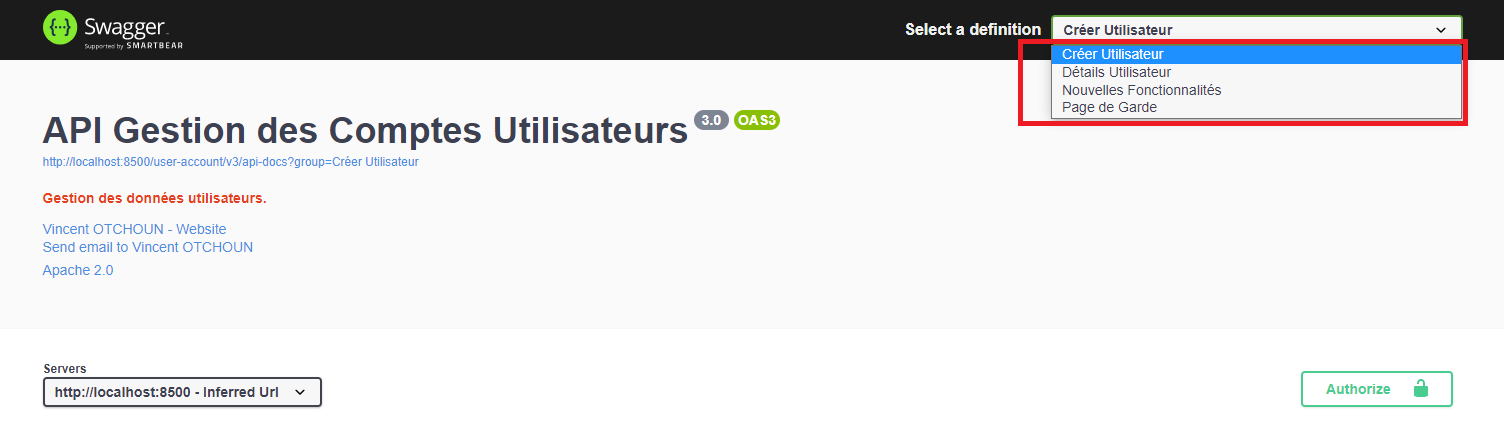
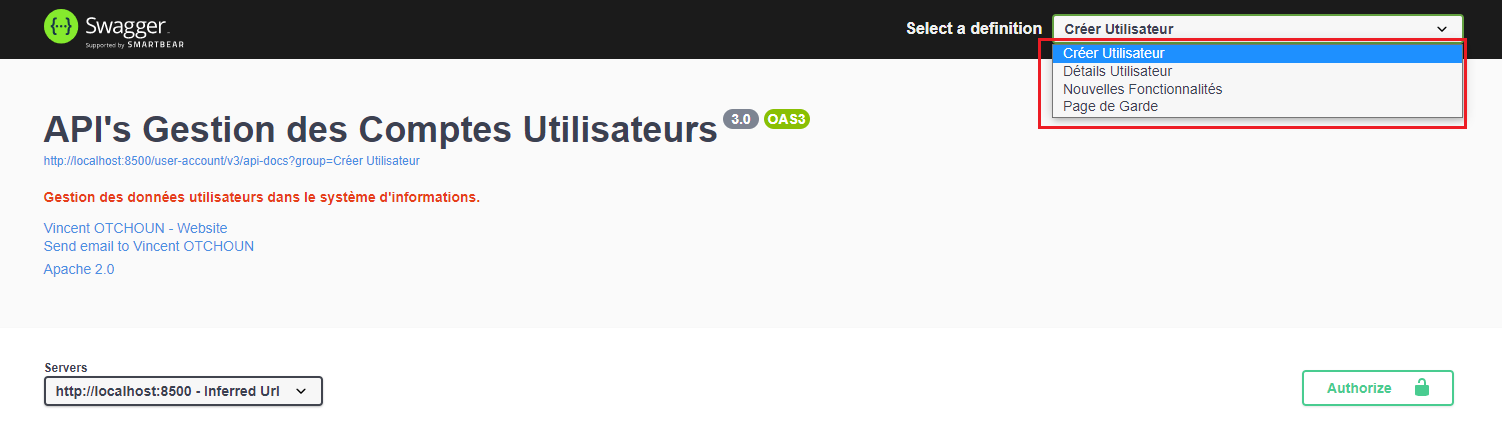
Maj de la documentation du projet

diff --git a/README.md b/README.md
@@ -26,7 +26,7 @@ Une liste non exhaustive des technos embarquées pour le développement de cette
 ![](https://img.shields.io/badge/Model_Mapper-✓-blue.svg)
 ![](https://img.shields.io/badge/Lombok-✓-blue.svg)
 ![](https://img.shields.io/badge/JaCoCo-✓-blue.svg)
-![](https://img.shields.io/badge/Swagger-✓-blue.svg)
+![](https://img.shields.io/badge/Swagger_3.0-✓-blue.svg)
 
 C'est un projet `Maven` avec `Spring Boot` donc basé sur le langage `Java` : 
 - `EA` (Entreprise Architect) pour la fourniture des éléments de modélisation/conception des spécifications techniques fournies.
@@ -37,7 +37,7 @@ C'est un projet `Maven` avec `Spring Boot` donc basé sur le langage `Java` :
 - `SonarLint` intégré dans l'IDE (_STS_) pour `analyser la qualité du code` livré (_bonnes pratiques de développement_).
 - `JaCoCo` produire/fournir les rapports de couverture du code source par les différents tests réalisés.
 - `Model Mapper` pour la conversion des objets : objets persistants vers `DTO` (Data Transfert Object) et vice versa.
-- `Swagger` dans sa version `3.0` pour la documentation et Tests des API proposées par le su=ystème d'informations.
+- `Swagger` dans sa version `3.0` pour la documentation et Tests des API proposées par le système d'informations.
 
 ## Configurations
 Les configurations de l'application permettent de faciliter aussi bien l'exécution que l'exploitation.
@@ -134,6 +134,7 @@ mvn spring-boot:run
 java -jar labs-tests-technique-0.0.1-SNAPSHOT.jar
 ```
 - Ligne de commande avec surcharge des fichiers de base
+
 Il peut y arriver qu'on veuille écraser les configuration de base par des fichiers externes (fichier de propriétés, logger, ....). Dans ce cas la commande est la suivante :
 ```bash
 java -Dlogging.config=file:${SRVC_HOME}/logback-spring.xml -jar labs-tests-technique-0.0.1-SNAPSHOT.jar -Dspring.config.location=file:${SRVC_HOME}/application.properties
@@ -146,14 +147,18 @@ Il permet également de tester les API's. Au démarrage de l'application, il est
 ```bash
 http://localhost:${server.port}/user-account/swagger-ui/index.html
 ```
-La configuration fournie dans l'application se présente ainsi :
+La configuration fournie dans l'application est la suivante :
 ![SWAGGER](./docs/images/app_swagger.png "Configuration Swagger dans l'application")
 
 Il fournit un ensemble de définition décrit dans le tableau ci-dessous
 |Défintion|Description|
 |---|---|
 |`Créer Utilisateur`|_API de création des données d'un nouvel utilisateur dans le SI_|
-|`Détails Utilisateur`|_API de création des données d'un nouvel utilisateur dans le SI_|
+|`Détails Utilisateur`|_API permettant de remonter les détails d'un utilisateur existant dans le SI_|
+|`Nouvelles Fonctionnalités`|_API fournissant les opérations suivantes : <ul><li>Mise à jour des données d'un utilisateur existant dans le SI</li><li>Suppression du SI des données d''un utulisateur existant</li><li>Afficher la liste paginée des utilisateurs du système</li></ul>_|
+|`Page de Garde`|_Ensemble des API's proposées par le système d'informations_|
+
+
 
 ## Tests
 
